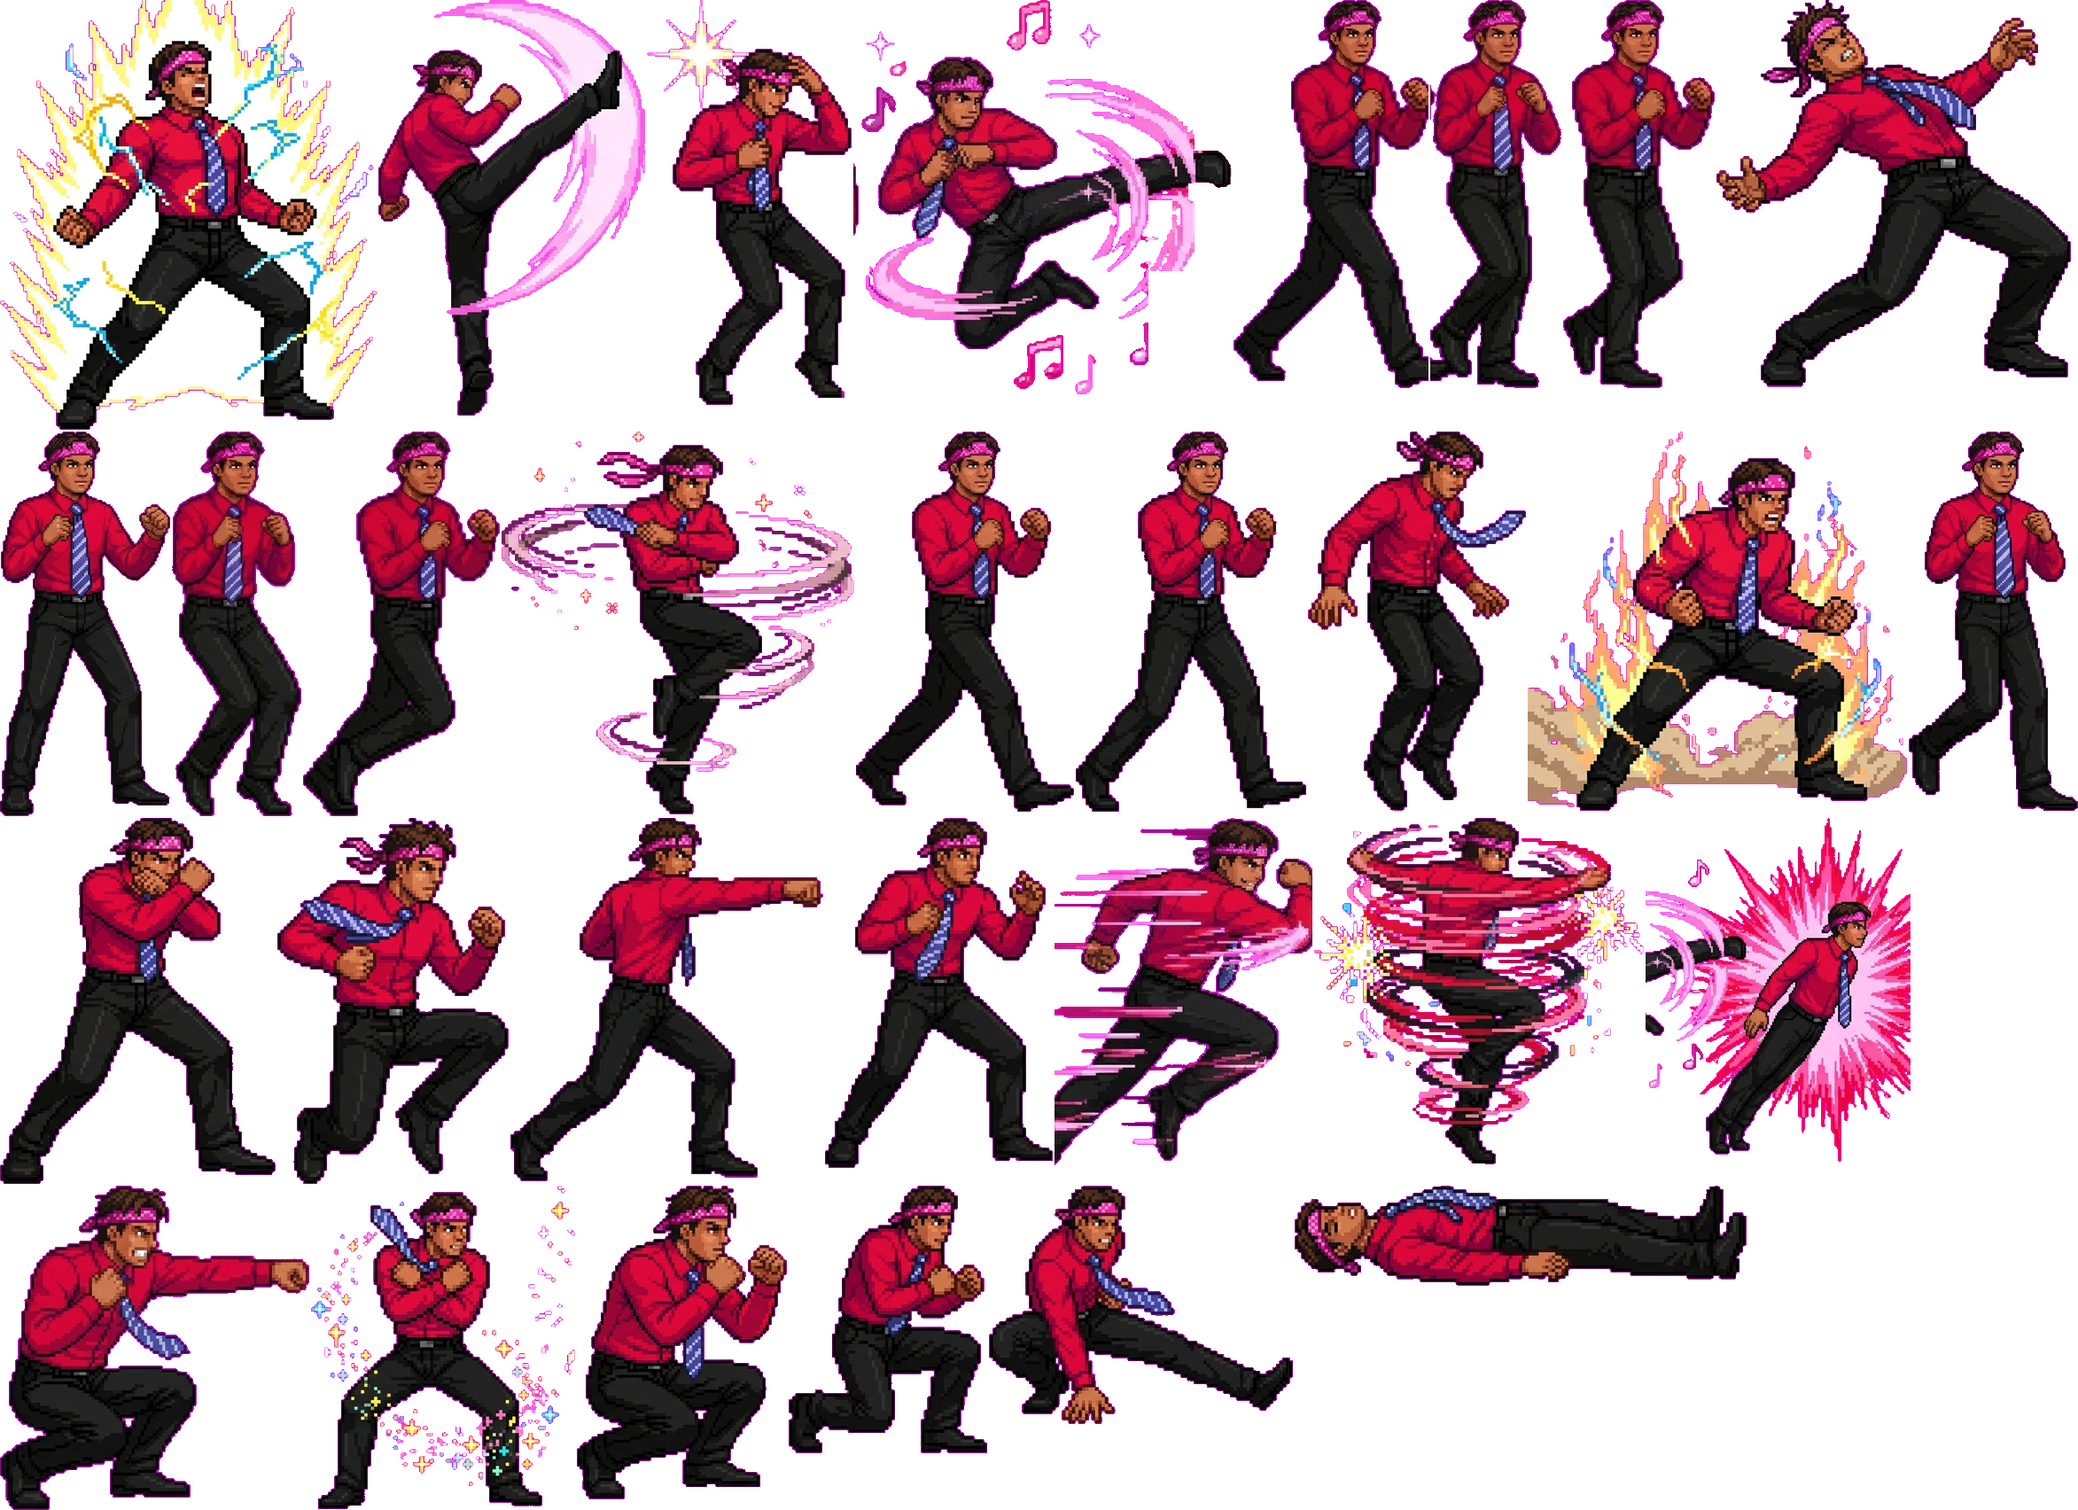
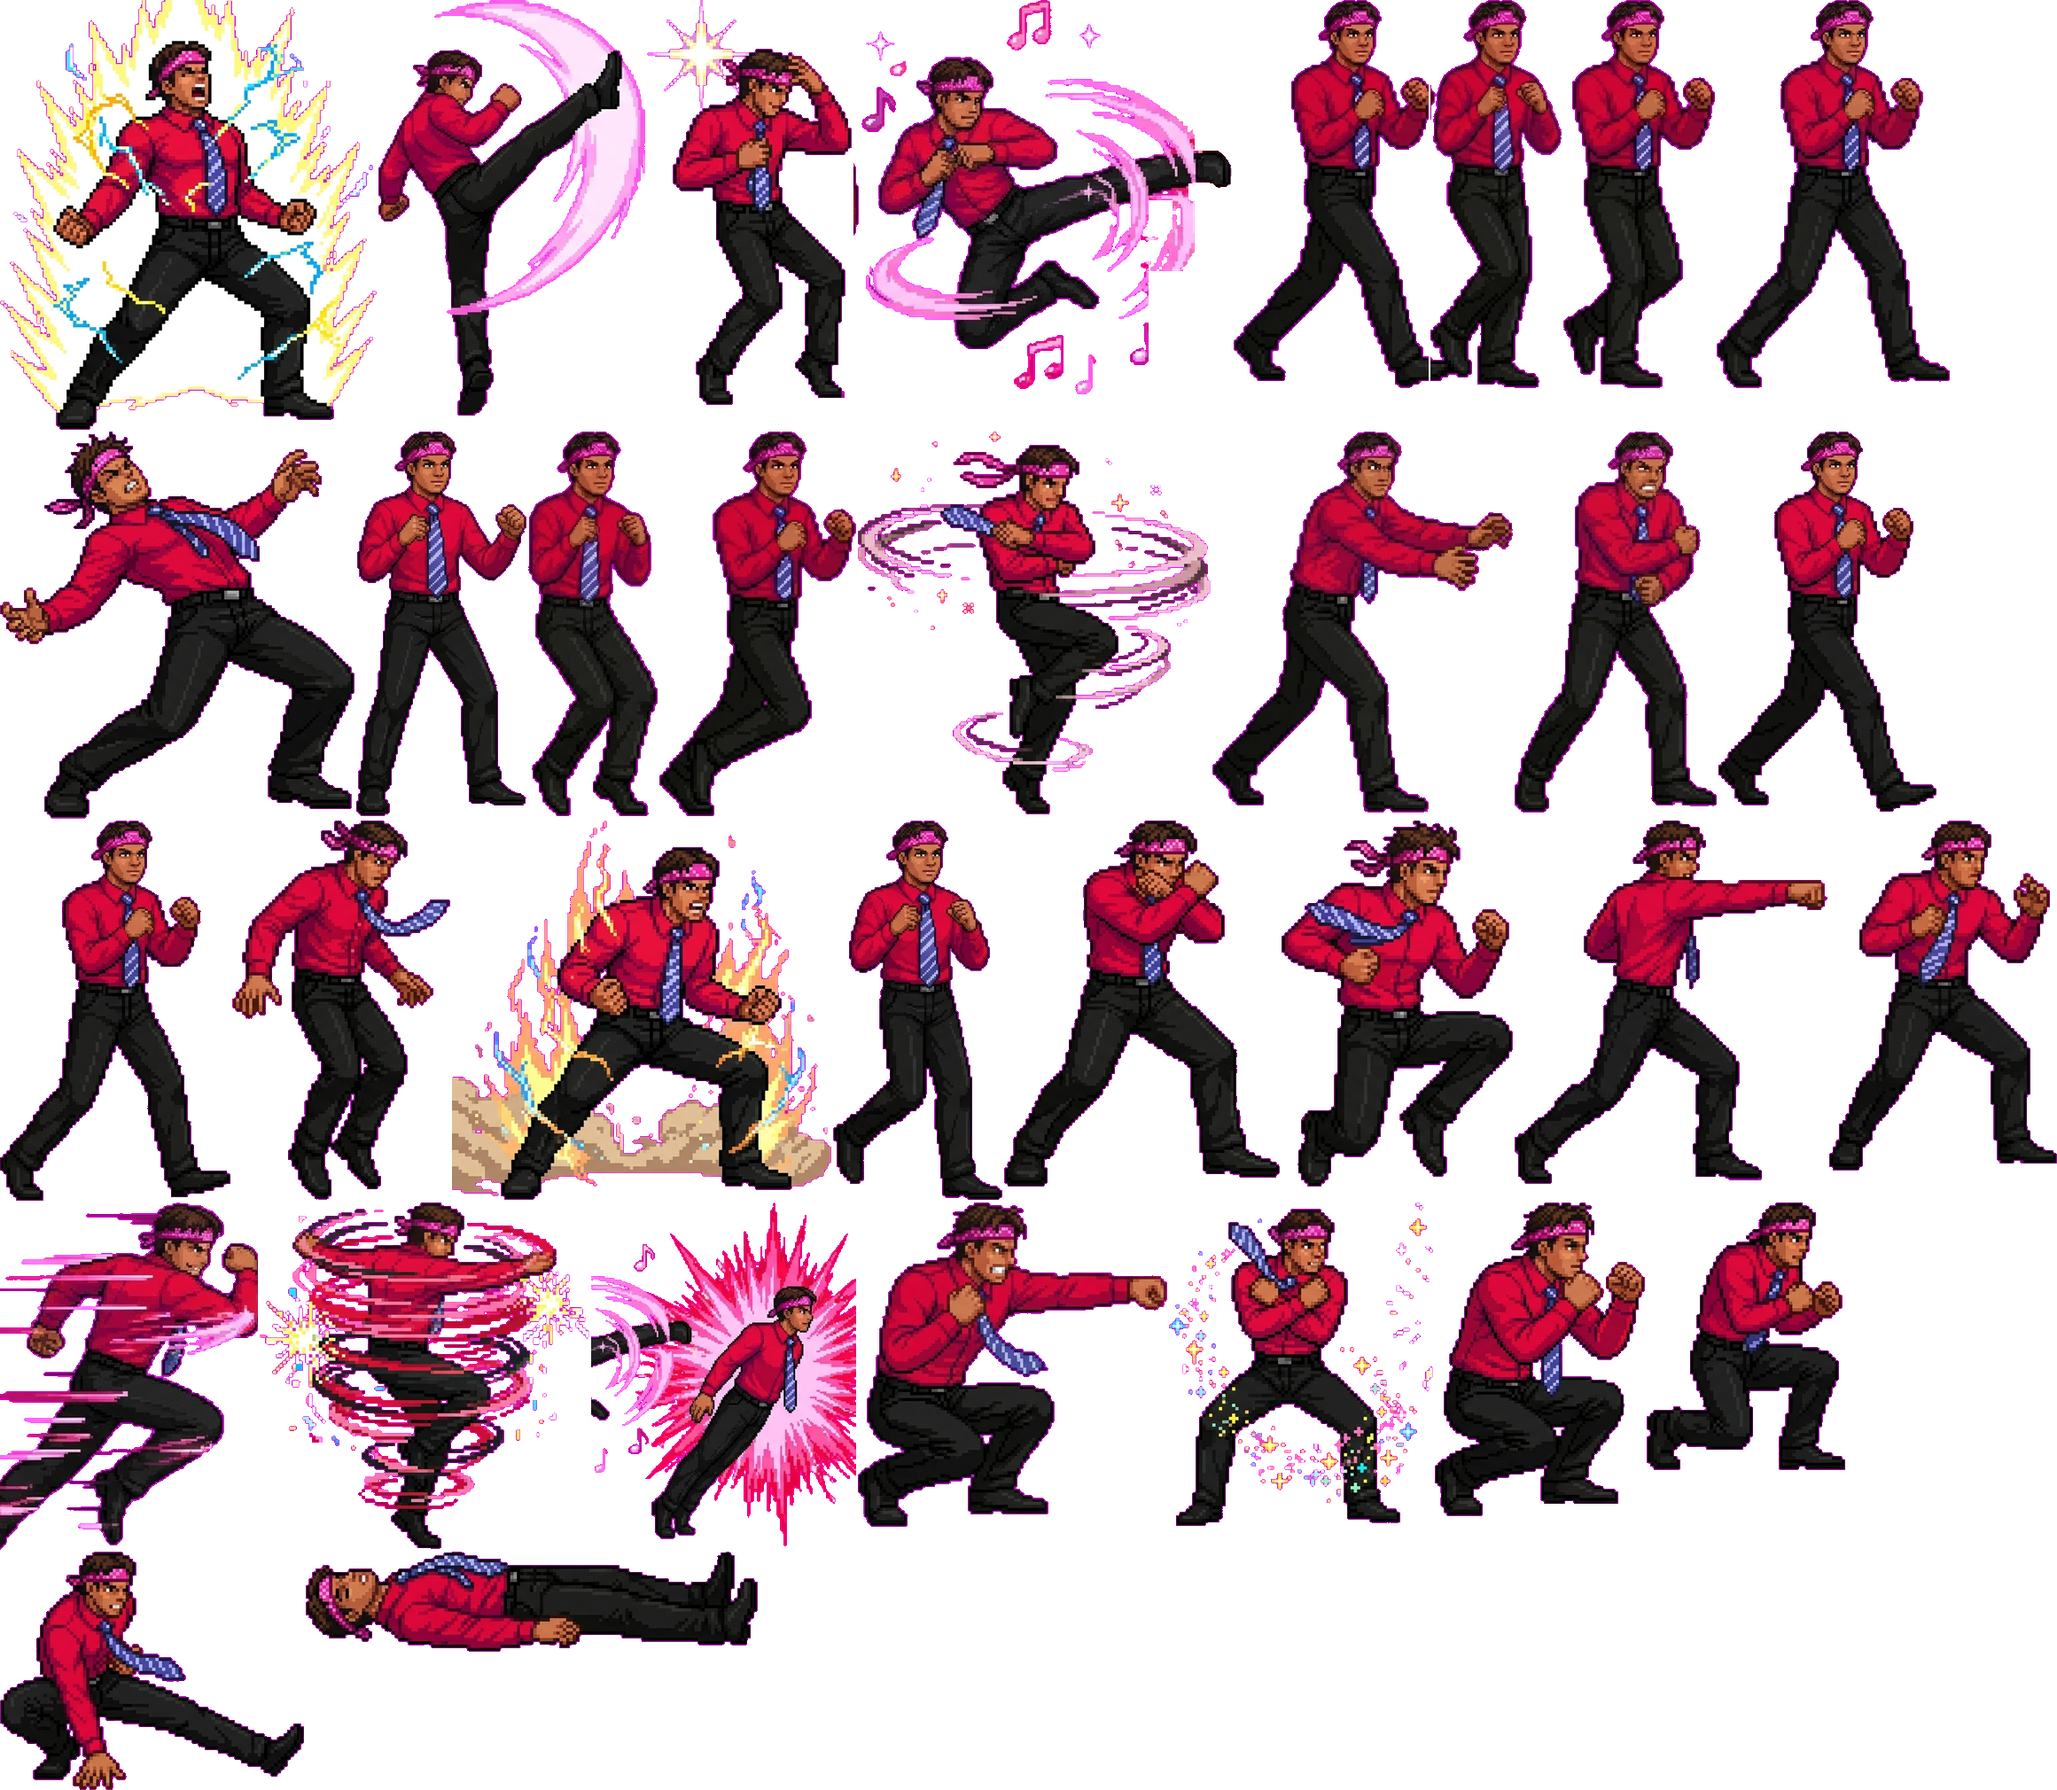
agarre de Pingordy

diff --git a/game-v4.js b/game-v4.js
@@ -71,14 +71,14 @@ function buildKent(atlas){for(const [name,m] of Object.entries(KENT_ATLAS)){cons
 // El Fiel's ultimate: backswing/swing frames (two variants), stored at 2x game size like Kent's atlas.
 const FIEL_SUPER_ATLAS={"backA":[0,0,239,505,0.683],"swingA":[241,91,394,414,0.395],"backB":[637,120,228,385,0.578],"swingB":[867,136,369,369,0.425]};
 // Characters drawn from their own atlas (Kent, Pingordy): same pose logic, one named frame per state.
-const PING_ATLAS={"charge":[0,0,425,485,0.47],"mid":[427,0,301,469,0.187],"introB":[730,0,231,457,0.495],"airKick":[963,0,427,445,0.31],"moon0":[1392,0,220,438,0.614],"moon1":[1614,0,148,438,0.442],"moon3":[1764,0,171,438,0.472],"hurt":[1937,0,400,437,0.373],"idle":[0,487,192,434,0.427],"moon2":[194,487,146,434,0.429],"moon4":[342,487,222,434,0.594],"win":[566,487,398,432,0.485],"walkA":[966,487,246,429,0.537],"walkB":[1214,487,260,429,0.535],"jumpDown":[1476,487,246,428,0.41],"introA":[1724,487,428,428,0.524],"walkC":[2154,487,191,428,0.479],"guard":[0,923,311,413,0.453],"jumpUp":[313,923,261,413,0.484],"punch":[576,923,353,410,0.409],"overheadPrep":[931,923,257,395,0.512],"superA":[1190,923,291,392,0.485],"flipSpin":[1483,923,372,391,0.489],"superB":[1857,923,299,388,0.623],"lowPunch":[0,1338,349,366,0.288],"special":[351,1338,298,365,0.453],"crouch":[651,1338,237,354,0.478],"low":[890,1338,224,302,0.562],"sweep":[1116,1338,343,269,0.25],"down":[1461,1338,510,113,0.496]};
+const PING_ATLAS={"charge":[0,0,425,485,0.47],"mid":[427,0,301,469,0.187],"introB":[730,0,231,457,0.495],"airKick":[963,0,427,445,0.31],"moon0":[1392,0,220,438,0.614],"moon1":[1614,0,148,438,0.442],"moon3":[1764,0,171,438,0.472],"grabEnd":[1937,0,263,438,0.544],"hurt":[0,487,400,437,0.373],"idle":[402,487,192,434,0.427],"moon2":[596,487,146,434,0.429],"moon4":[744,487,222,434,0.594],"win":[968,487,398,432,0.485],"grabReach":[1368,487,339,430,0.522],"grabHold":[1709,487,228,430,0.591],"walkA":[1939,487,246,429,0.537],"walkB":[0,926,260,429,0.535],"jumpDown":[262,926,246,428,0.41],"introA":[510,926,428,428,0.524],"walkC":[940,926,191,428,0.479],"guard":[1133,926,311,413,0.453],"jumpUp":[1446,926,261,413,0.484],"punch":[1709,926,353,410,0.409],"overheadPrep":[2064,926,257,395,0.512],"superA":[0,1357,291,392,0.485],"flipSpin":[293,1357,372,391,0.489],"superB":[667,1357,299,388,0.623],"lowPunch":[968,1357,349,366,0.288],"special":[1319,1357,298,365,0.453],"crouch":[1619,1357,237,354,0.478],"low":[1858,1357,224,302,0.562],"sweep":[0,1751,343,269,0.25],"down":[345,1751,510,113,0.496]};
 // Lancha's jump frames: crouch, up, dive (double jump), prone (landing after the dive), fall.
 const LJ_ATLAS={"up":[0,0,249,428,0.472],"fall":[251,0,272,403,0.55],"crouch":[525,0,232,332,0.47],"dive":[759,0,471,315,0.444],"prone":[1232,0,357,200,0.426]};
 const LC_ATLAS={"flex":[0,0,256,445,0.533],"bite":[258,0,207,441,0.441],"chew":[467,0,221,438,0.42],"ready":[690,0,241,430,0.431]};
 const IE_ATLAS={"charge":[0,0,267,686,0.493],"overheadHit":[269,0,362,606,0.59],"superB":[633,0,321,554,0.474],"flipSpin":[956,0,343,469,0.531],"introB":[1301,0,260,456,0.445],"walkB":[1563,0,256,444,0.516],"walkC":[1821,0,227,444,0.464],"walkA":[2050,0,256,440,0.517],"introA":[0,688,227,438,0.523],"idle":[229,688,300,436,0.499],"superA":[531,688,268,433,0.554],"overheadPrep":[801,688,241,431,0.463],"punch":[1044,688,345,430,0.43],"chargeA":[1391,688,287,426,0.51],"chargeB":[1680,688,361,426,0.504],"special":[2043,688,337,410,0.452],"jumpDown":[0,1128,289,403,0.53],"jumpUp":[291,1128,217,395,0.525],"hurt":[510,1128,398,378,0.411],"crouch":[910,1128,258,345,0.487],"low":[1170,1128,274,332,0.557],"sweep":[1446,1128,459,319,0.337],"down":[1907,1128,415,151,0.528]};
 // El Fiel's recharge frames (shaking squat, tongue out); stored with Lancha's recharge frames.
 const FC_ATLAS={"tremB":[0,0,341,450,0.522],"tremA":[343,0,337,430,0.526]};
-const SETS=[null,null,{frames:kentFrames,scale:.85,extra:{introA:1.15,introB:1.15},charge:['overheadPrep','overheadHit']},{frames:pingFrames,scale:1,extra:{introA:1.2,introB:1.2,win:1.2},charge:['introA','charge'],lowPunch:{frame:'lowPunch'}},{frames:ieFrames,scale:1,extra:{introA:1.15,introB:1.15},charge:['chargeA','chargeB']}];
+const SETS=[null,null,{frames:kentFrames,scale:.85,extra:{introA:1.15,introB:1.15},charge:['overheadPrep','overheadHit']},{frames:pingFrames,scale:1,extra:{introA:1.2,introB:1.2,win:1.2},charge:['introA','charge'],lowPunch:{frame:'lowPunch'},grab:['grabReach','grabHold','grabEnd']},{frames:ieFrames,scale:1,extra:{introA:1.15,introB:1.15},charge:['chargeA','chargeB']}];
 const FALLBACK={airKick:'flipSpin',flipTuck:'flipSpin',overheadHit:'punch',overheadPrep:'idle',crouchHurt:'hurt',landing:'crouch',special:'mid',superB:'superA',introB:'introA',mid:'punch',guard:'idle'};
 function resolvePose(id,name){const f=SETS[id].frames;while(!f[name]&&FALLBACK[name])name=FALLBACK[name];return name}
 function buildFielSuper(atlas){for(const [name,m] of Object.entries(FIEL_SUPER_ATLAS)){const c=document.createElement('canvas');c.width=m[2];c.height=m[3];c.getContext('2d').drawImage(atlas,m[0],m[1],m[2],m[3],0,0,m[2],m[3]);fielSuper[name]={image:c,height:m[3],anchor:m[4]}}}
@@ -269,13 +269,14 @@ function flipLift(p){const r=ROLL[p.id],g=Math.min(1,p.age/r.dur);return g>=.12&
 // Kent's poses come from his own atlas, one named frame per state (same state logic as pose()).
 function kentRollFrame(p){const g=Math.min(1,p.age/ROLL[p.id].dur);return g<.12?'crouch':g<.32?'flipTuck':g<.62?'flipSpin':g<.8?'flipTuck':g<.92?'landing':'idle'}
 function kentPose(p){const m=p.move;
- if(['ko','thrown','dizzy','bounce'].includes(p.action))return{kent:p.action==='ko'?'down':'hurt'};if(p.action==='throwing'){const w=throwerAt(p).pose;return{kent:w.base===2?'punch':w.extra===5||w.follow===3?'overheadPrep':'overheadHit'}}
+ if(['ko','thrown','dizzy','bounce'].includes(p.action))return{kent:p.action==='ko'?'down':'hurt'};if(p.action==='throwing'){const w=throwerAt(p).pose,g=SETS[p.id].grab;if(g)return{kent:w.extra===0?g[0]:w.extra===5?g[1]:g[2]};return{kent:w.base===2?'punch':w.extra===5||w.follow===3?'overheadPrep':'overheadHit'}}
  if(state==='intro'&&phaseTime>.9)return{kent:Math.floor(introElapsed*1.4)%2?'introB':'introA'};
  if((state==='round'||state==='match')&&p.hp>0&&p.hp===Math.max(...players.map(k=>k.hp)))return{kent:SETS[p.id].frames.win?'win':'introB'};
  if(cinematic()&&superFX.owner===p)return{kent:SETS[p.id].frames.charge?'charge':'superA'};
  if(p.action==='roll')return{kent:kentRollFrame(p)};
  if(p.action==='dash'){if(p.id===3&&SETS[3].frames.moon0){const i=Math.floor(p.age*14)%5;return{kent:'moon'+(p.dashDir===p.face?(5-i)%5:i)}}if(p.id===3&&SETS[3].frames.walkC){const seq=['walkA','walkC','walkB'],i=Math.floor(p.age*10)%3;return{kent:seq[p.dashDir===p.face?(3-i)%3:i]}}return{kent:Math.floor(tick*20)%2?'walkA':'walkB'}}
  if(p.action==='attack'){const total=m.startup+m.active+m.recovery,preparing=p.age<m.startup*.57,recovering=p.age>total-m.recovery*.65;
+  if(p.moveId==='throw'&&SETS[p.id].grab){const g=SETS[p.id].grab;return{kent:p.age<m.startup*.5?'idle':p.age<m.startup+m.active+.08?g[0]:g[2]}}
   if(preparing||recovering){if(m.crouched)return{kent:'crouch'};if(p.y>0)return{kent:p.vy>0?'jumpUp':'jumpDown'};if(['overhead','charged'].includes(p.moveId)&&!recovering)return{kent:'overheadPrep'};return{kent:'idle'}}
   if(m.frame==='punch')return{kent:'punch'};if(m.frame==='mid')return{kent:'mid'};if(m.frame==='low'){const lp=SETS[p.id].lowPunch;return lp?{kent:lp.frame,sy:lp.squash}:{kent:'low'}}if(m.frame==='sweep')return{kent:'sweep'};if(m.frame==='air')return{kent:'airKick'};if(m.frame==='overhead')return{kent:'overheadHit'};
   return{kent:p.moveId==='super'?(Math.floor(p.age*9)%2?'superB':'superA'):'special'}}

diff --git a/docs/ARTE.md b/docs/ARTE.md
@@ -111,3 +111,9 @@ Quinto personaje, a partir de 15 imágenes de la carpeta `inge.estrella` (cuerpo
 Asignación por el nombre de cada archivo: reposo y caminar, golpe alto (puño), golpe bajo (golpe bajo y patada baja), agachado, salto y caída, golpeado, derribo, victoria y presentación, especial 2 (lanza código con el teclado, es su proyectil), ulti (teclado, tornado de código, manos arriba con haz de código y laptop con explosión), recarga de energía (llamas y aura) y el haz de código del especial 1 como golpe descendente. La rodada usa el tornado de código.
 
 Faltan en su carpeta una pose de bloqueo y una patada media: la defensa usa el reposo y la patada media el puño. El primer cuadro del especial 1 (orbe de código) y el último (de pie) quedaron sin usar.
+
+---
+
+# Agarre de Pingordy
+
+Tres cuadros propios (`grabReach`, `grabHold`, `grabEnd` en `assets/pingordy.png`): alcanza con los brazos, agarra y jala con los brazos cruzados, y termina en guardia. Se usan en las tres fases de su suplex: durante la preparación y el contacto del agarre (alcanzar), mientras levanta y lanza al rival en arco (agarrar y jalar, con la inclinación hacia atrás que ya tenía la llave) y al recuperarse (guardia); si el agarre falla, vuelve a la guardia. La coreografía del rival y los tiempos no cambiaron. Kent e Ingestrella siguen usando poses provisionales (puño y golpe descendente) en su agarre.
